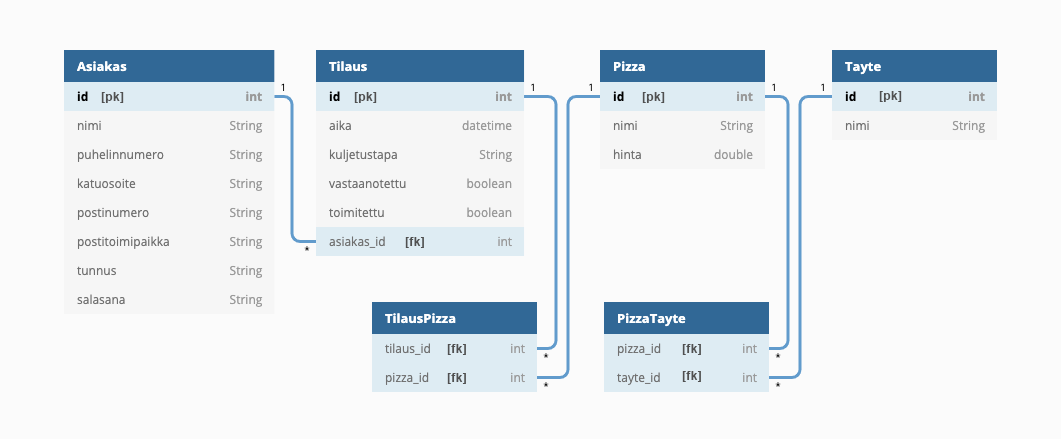
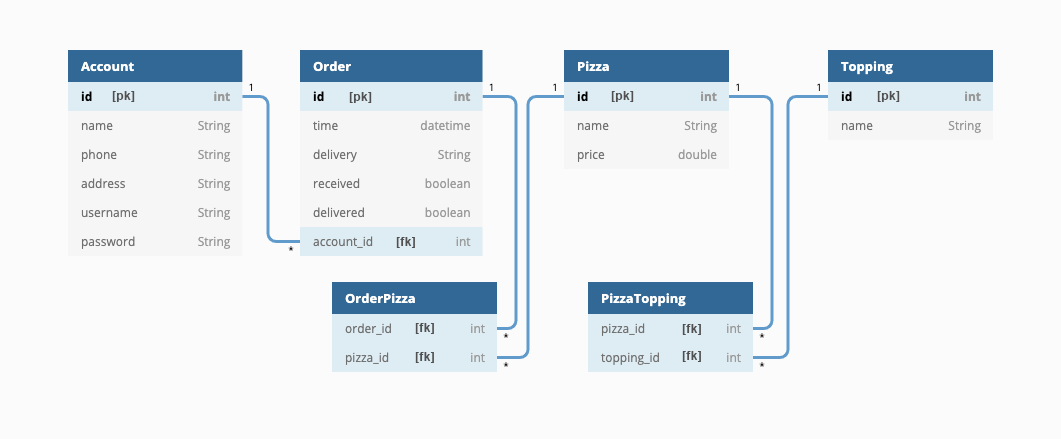
readme, userstory, db diagram updates

diff --git a/documentation/userstoryt.md b/documentation/userstoryt.md
@@ -4,23 +4,23 @@ done
 - Ylläpitäjänä voin lisätä täytteen
 - Ylläpitäjänä voin selailla täytteitä
 - Ylläpitäjänä voin muokata täytteen nimeä
+- ylläpitäjänä voin poistaa täytteen
+- ylläpitäjänä voin selata asiakkaita
+- ylläpitäjänä voin muokata asiakasta
+- ylläpitäjänä voin poistaa asiakkaan
+- asiakkaana voin rekisteröityä palveluun
+- asiakkaana voin kirjautua sisään/ulos
 
 backlog
-- ylläpitäjänä voin poistaa täytteen
 - ylläpitäjänä voin lisätä pizzan valikoimaan ja valita siihen täytteet
 - ylläpitäjänä voin muokata pizzaa
 - ylläpitäjänä voin poistaa pizzan
 - ylläpitäjänä voin selata tilauksia
 - ylläpitäjänä voin muuttaa tilauksen statusta
 - ylläpitäjänä voin poistaa tilauksen
-- ylläpitäjänä voin selata asiakkaita
-- ylläpitäjänä voin muokata asiakasta
-- ylläpitäjänä voin poistaa asiakkaan
-- ylläpitäjänä voin kirjautus sisään/ulos
-- käyttäjänä voin selata pizzoja ja nähdä niiden täytteet
-- käyttäjänä voin lisätä yhden tai useamman pizzan ostoskoriin
-- käyttäjänä voin katsella ostoskorin sisältöä
-- käyttäjänä voin rekisteröityä palveluun
-- asiakkaana voin kirjautua sisään/ulos
+- asiakkaana voin selata pizzoja ja nähdä niiden täytteet
+- asiakkaana voin lisätä yhden tai useamman pizzan ostoskoriin
+- asiakkaana voin katsella ostoskorin sisältöä
 - asiakkaana voin tehdä tilauksen
 - asiakkaana voin seurata tilaukseni statusta
+- ylläpitäjä / asiakas käyttäjärooleilla on eri oikeudet muokata sisältöä

diff --git a/README.md b/README.md
@@ -6,12 +6,16 @@ Asiakas voi valita pizzat valikosta ja tehdä tilauksen. Asiakkaan tulee rekiste
 
 Ylläpitäjä voi hallita sisältöjä. Eli katsella, lisätä, muokata ja poistaa täytteitä, pizzoja, tilauksia sekä asiakkaita.
 
-Tietokannan taulut ovat: Asiakas, Tilaus, Pizza, Tayte
+Tietokannan taulut ovat: Account, Order, Pizza, Topping
 
-Liitostauluja ovat: TilausPizza, PizzaTayte
+Liitostauluja ovat: OrderPizza, PizzaTopping
 
 
 [Sovellus Herokussa](https://desolate-bayou-52025.herokuapp.com/)
+
+Testitunnukset:
+teppo
+testaaja
  
 [Tietokantakaavio](https://github.com/juissijohtaja/Pizzapalvelu/blob/master/documentation/Pizzapalvelu-dbdiagram.png)
 
